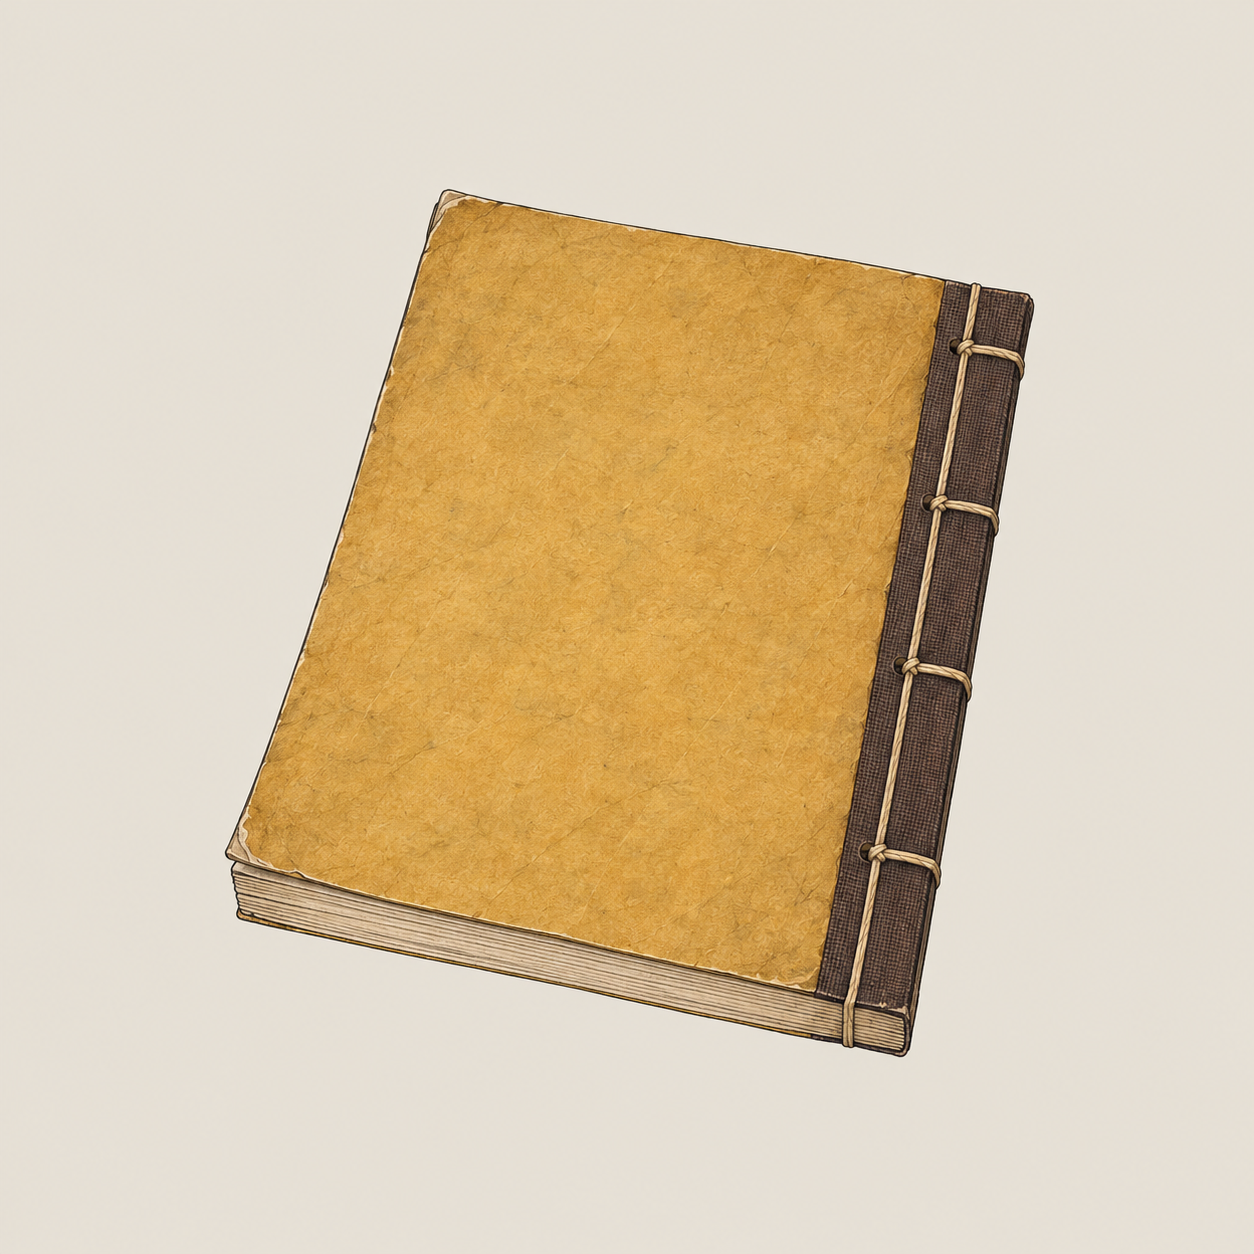
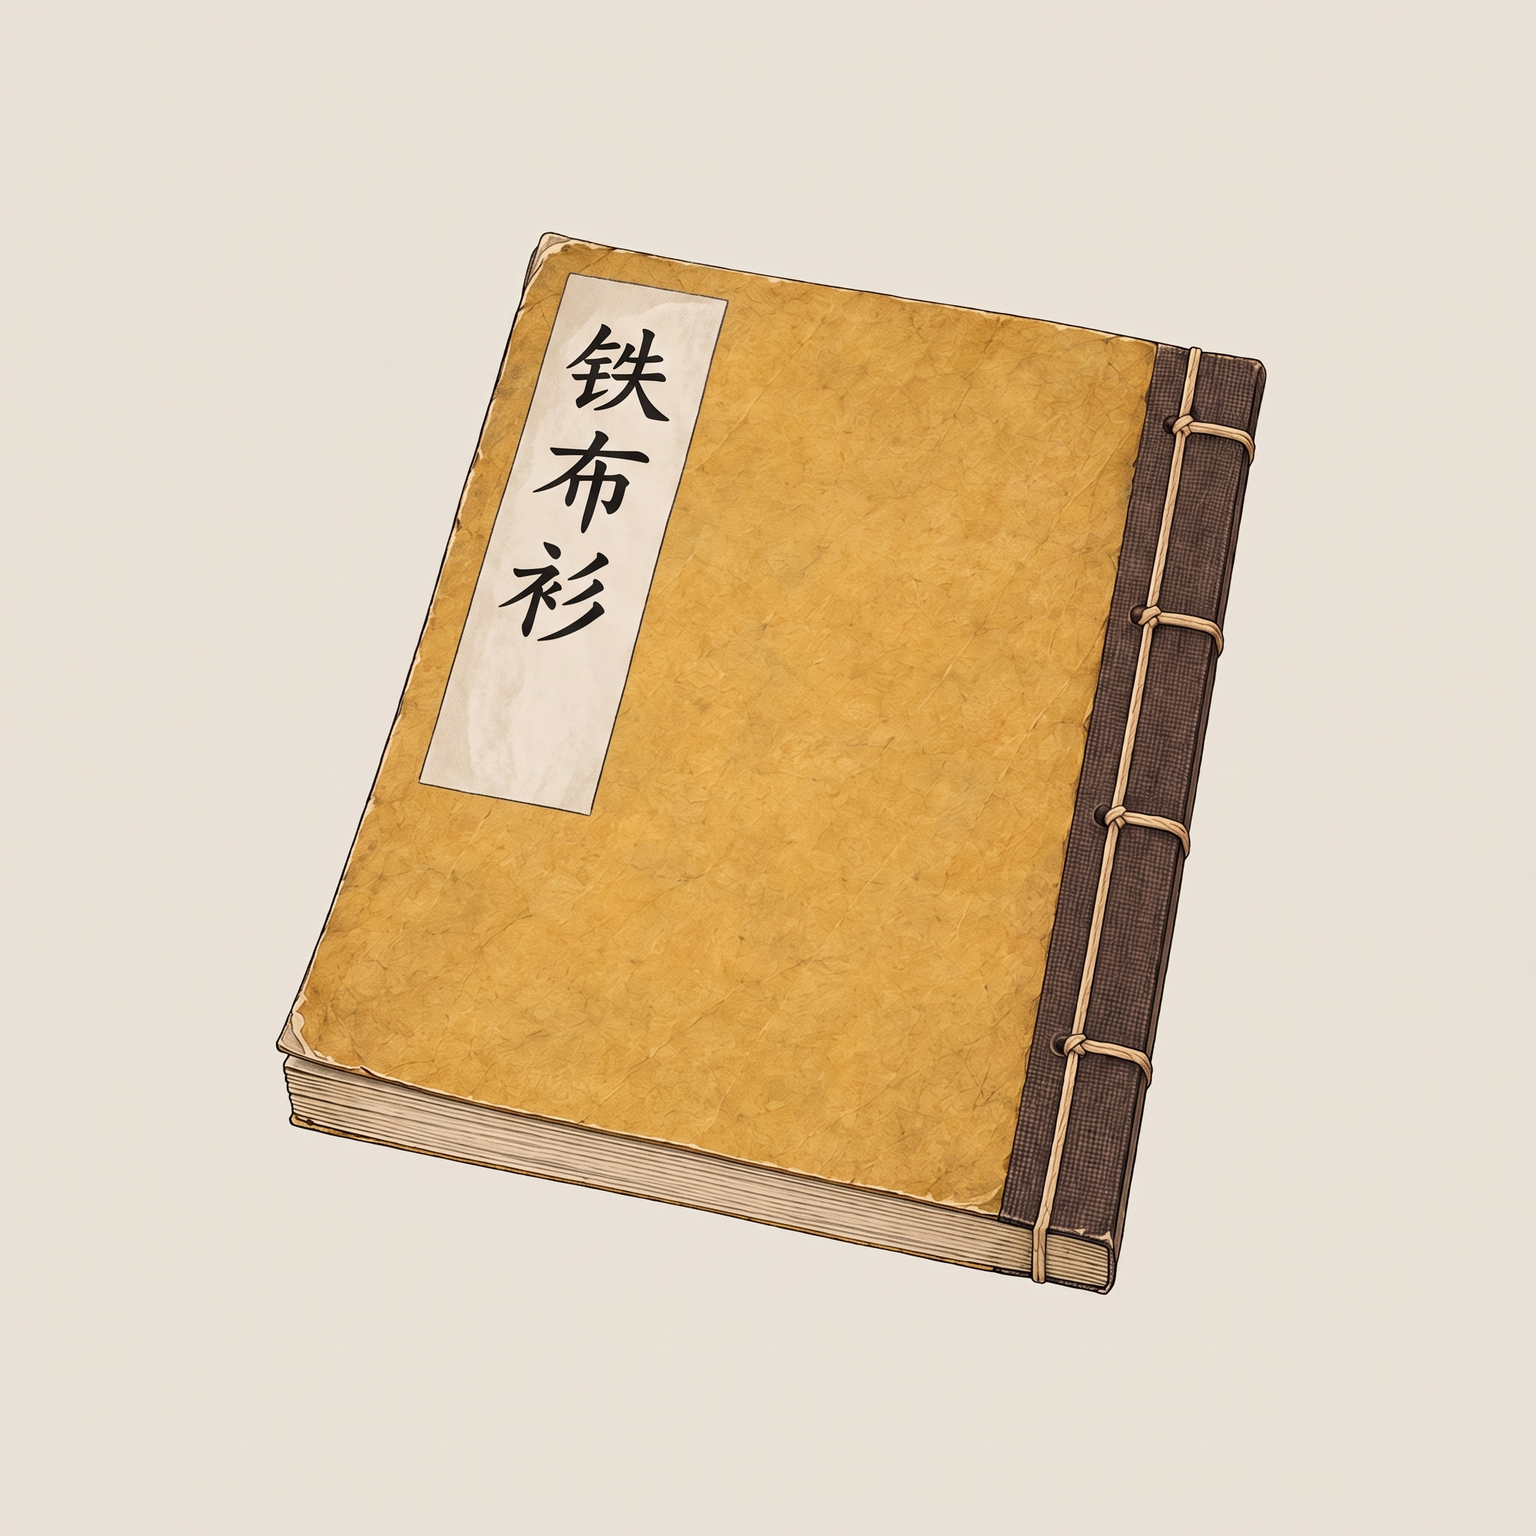
assets(gemini): it_miji_tiebushan 铁布衫秘籍

diff --git a/assets/default/prompts/INDEX.md b/assets/default/prompts/INDEX.md
@@ -3,7 +3,7 @@
 > 本文件由 `tools/agents/build_image_index.py` 生成，不要手改；改提示词就改各文件，改规程就改各组 `GUIDE.md`，然后重新生成。
 > 人物立绘另见 `characters/INDEX.md`（别的 agent 在出，不在本索引）。建筑套件与贴片已出齐，只列完成度。
 
-提示词 **627** 份：已入库 261、待出图 231、已通过（作者） 135。**待出图队列 231 行**（`python3 tools/agents/build_image_index.py --queue`）。
+提示词 **627** 份：已入库 262、待出图 231、已通过（作者） 134。**待出图队列 231 行**（`python3 tools/agents/build_image_index.py --queue`）。
 
 ## 出图 agent 怎么用
 
@@ -389,7 +389,7 @@
 | 115 | 猪肚 | `it_zhudu` | 黄 | 食材·肉 | 待出图 | [it_zhudu.md](items/food/it_zhudu.md) | template |
 | 116 | 猪肉 | `it_zhurou` | 黄 | 食材·肉 | 待出图 | [it_zhurou.md](items/food/it_zhurou.md) | template |
 
-### 武学秘籍（18）· 已入库 15、已通过（作者） 3
+### 武学秘籍（18）· 已入库 16、已通过（作者） 2
 
 （已全部入库。）
 
